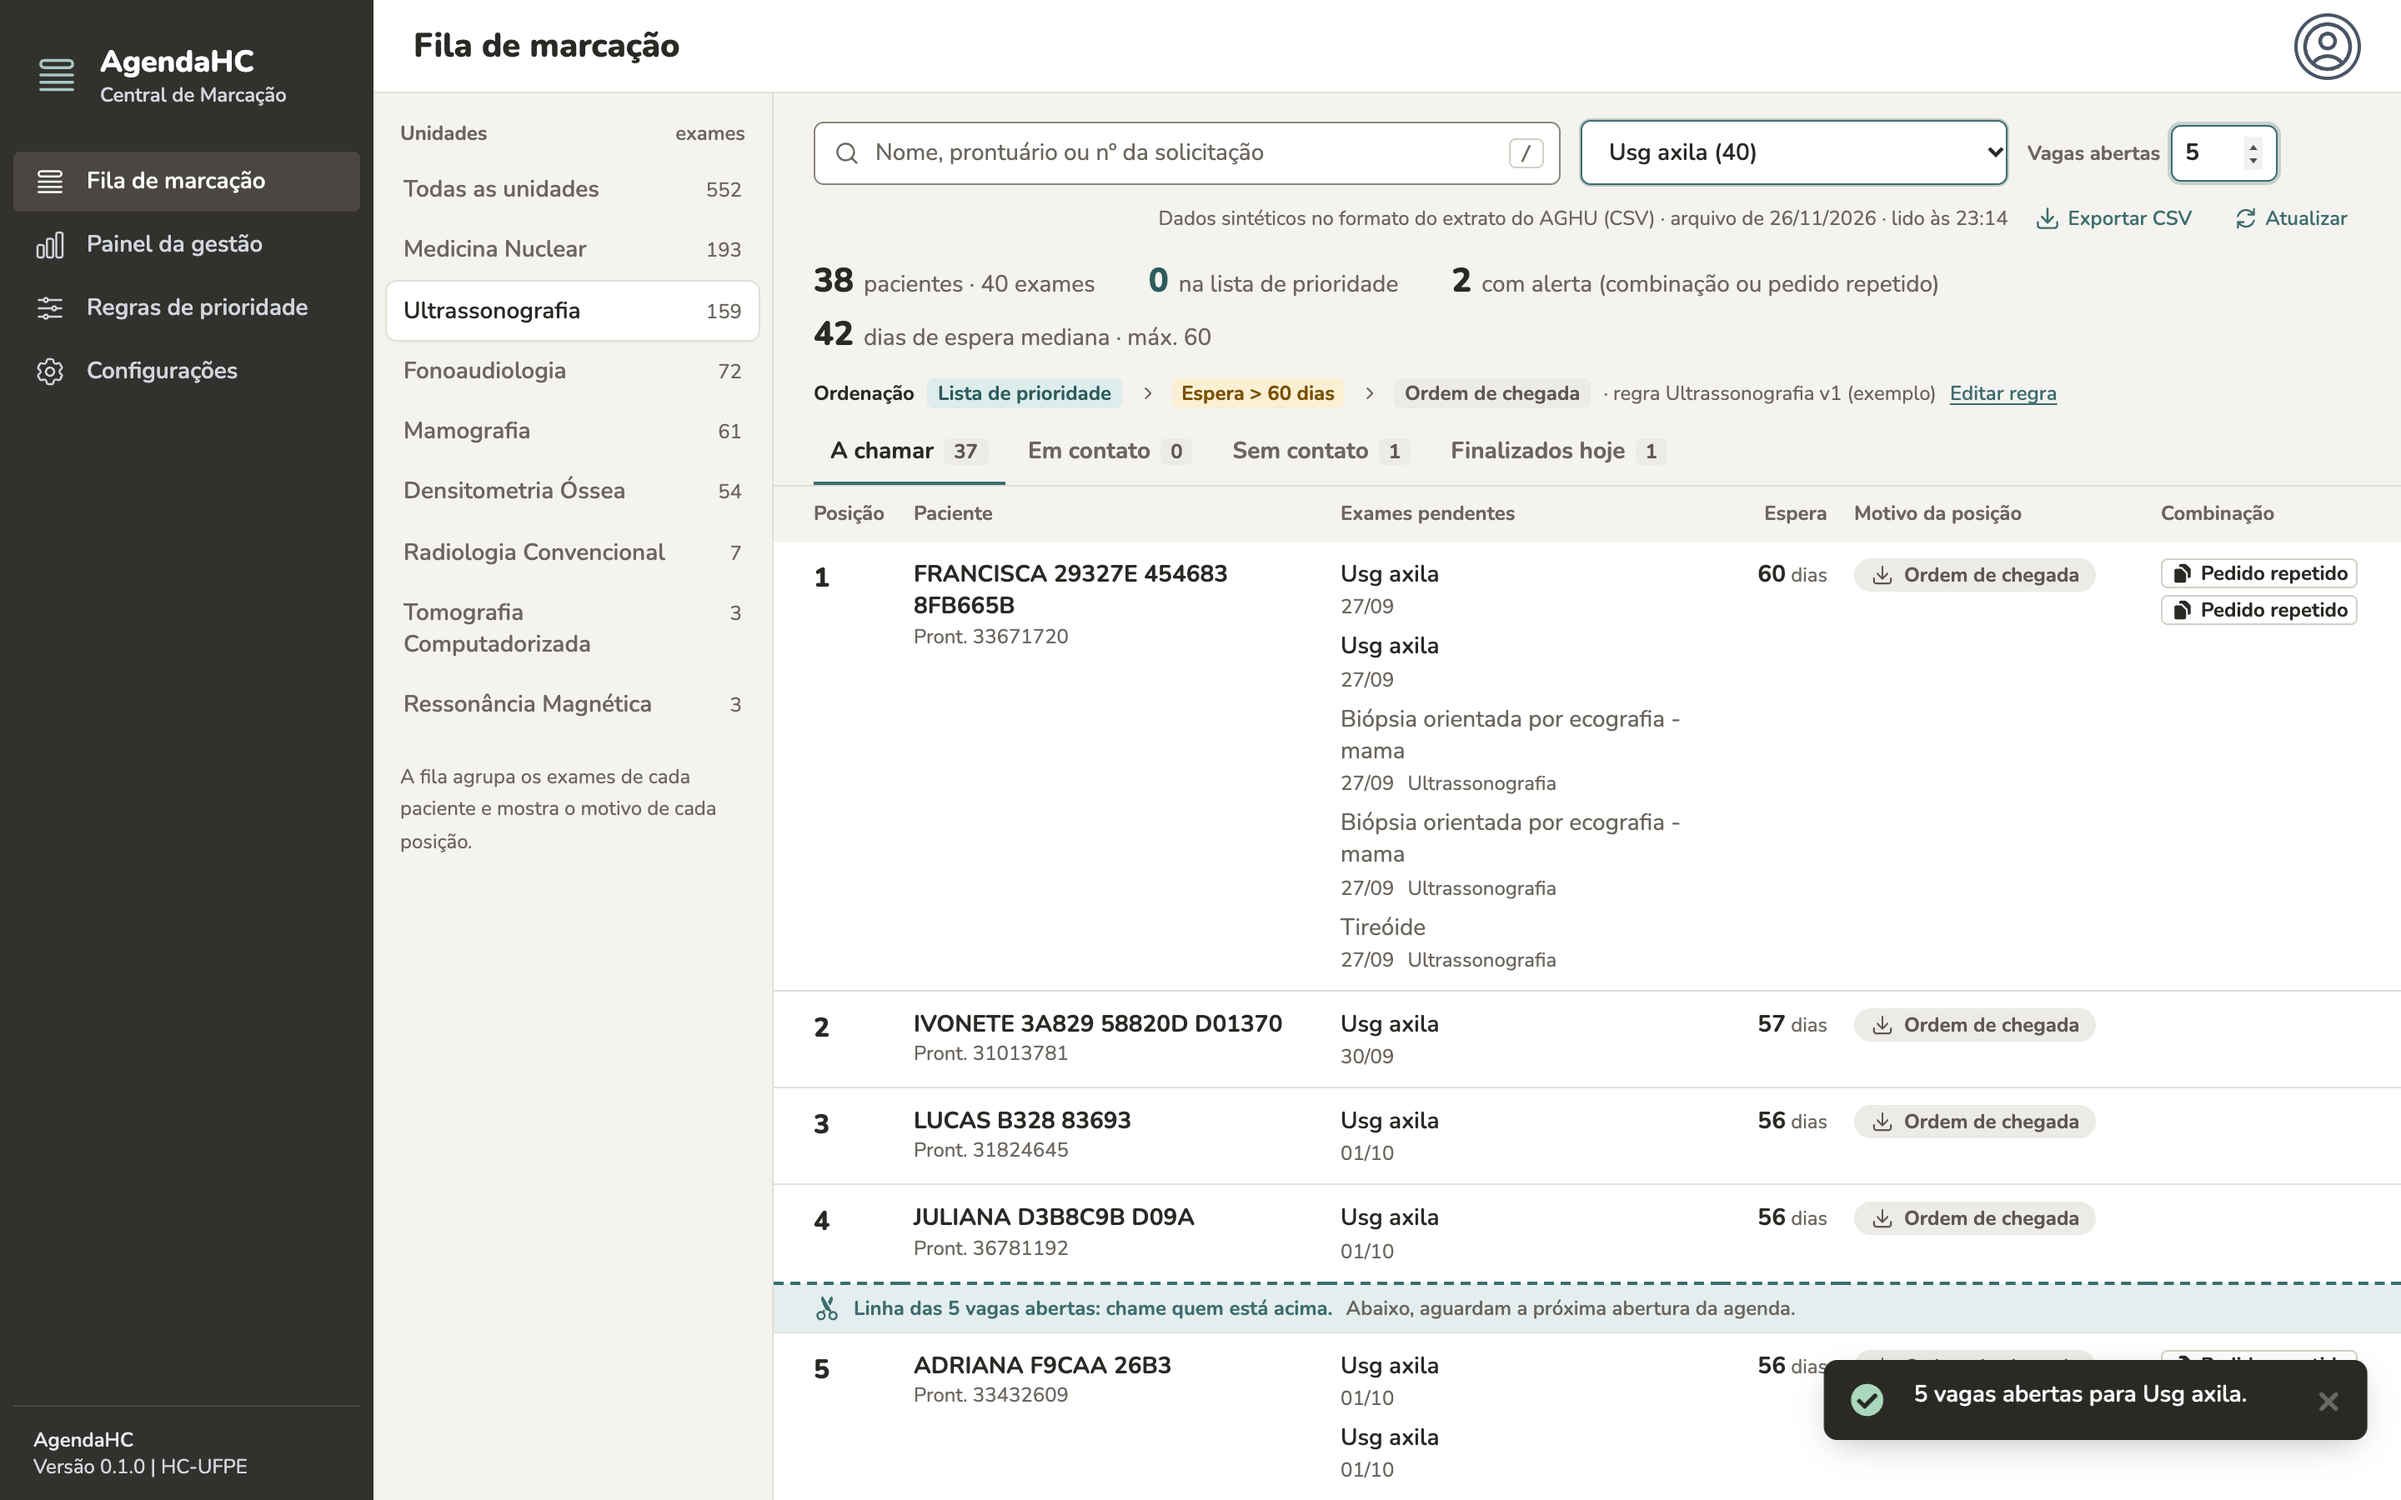
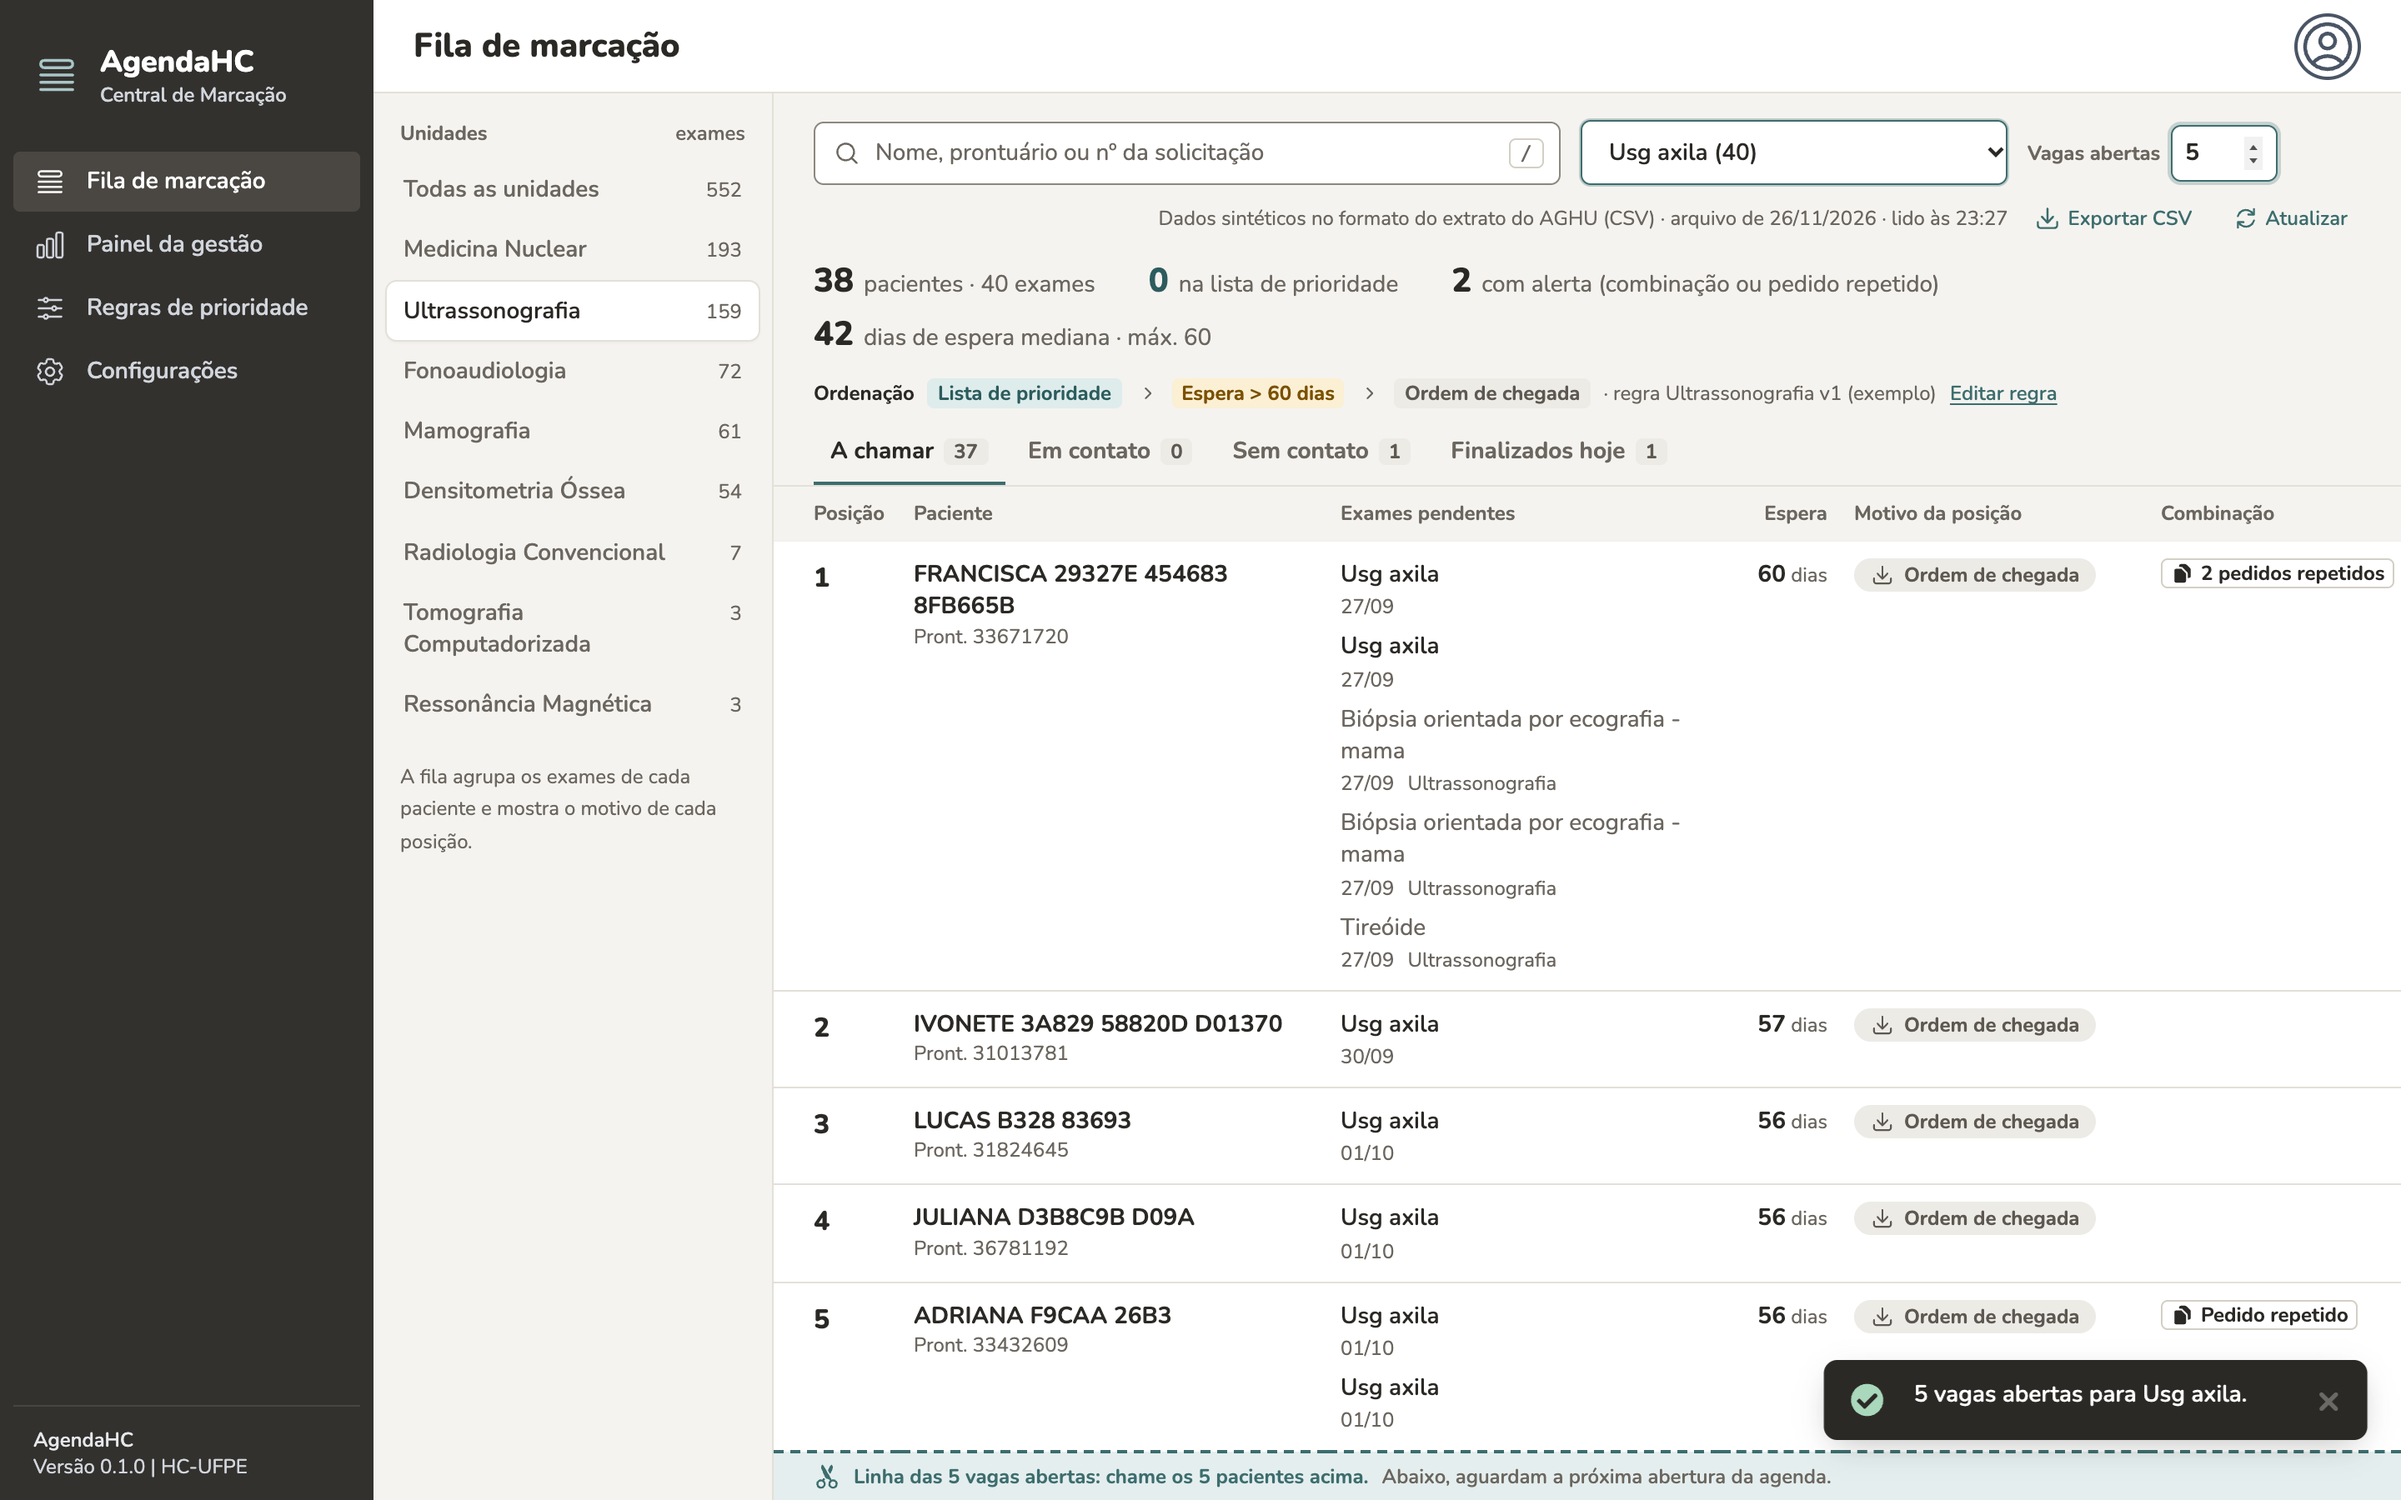
Protótipo: correções da revisão antes da demo
- Datas sem hora (agendamento, validade) eram lidas como meia-noite UTC e
  apareciam um dia antes em Recife.
- O prazo de 24 horas do paciente usa o contato mais antigo; antes, um
  contato recente escondia outro vencido.
- A linha de corte das vagas conta pacientes, não exames, e pedidos
  repetidos de um paciente viram um só alerta na linha.
- A prévia da mensagem explica por que o preparo de exemplo não entra.

Changed region(s): [[0.3125, 0.84, 1.0, 1.0], [0.9062, 0.3733, 1.0, 0.4356]]

diff --git a/Framework-SETISD/frontend/src/views/Fila.vue b/Framework-SETISD/frontend/src/views/Fila.vue
@@ -218,7 +218,7 @@
               <td v-if="!l.g" :colspan="colunas" class="px-6 py-1.5">
                 <p class="flex flex-wrap items-center gap-x-2 text-xs font-bold text-acao">
                   <ScissorsIcon class="h-4 w-4 -rotate-90" aria-hidden="true" />
-                  Linha das {{ dados?.vagas?.vagas }} vagas abertas: chame quem está acima.
+                  Linha das {{ dados?.vagas?.vagas }} vagas abertas: chame os {{ dados?.vagas?.vagas }} pacientes acima.
                   <span class="font-semibold text-ink-muted">Abaixo, aguardam a próxima abertura da agenda.</span>
                 </p>
               </td>
@@ -283,13 +283,13 @@
                       {{ l.g.tentativas }} {{ l.g.tentativas === 1 ? 'tentativa' : 'tentativas' }}<template v-if="l.g.contato"> · última {{ horaCurta(l.g.contato.criado_em) }}</template>
                     </p>
                     <template v-if="compacto">
-                      <AlertaCombinacao v-for="a in l.g.alertas" :key="a.tipo + a.exames.join()" :alerta="a" />
+                      <AlertaCombinacao v-for="a in alertasDaLinha(l.g)" :key="a.alerta.tipo + a.alerta.exames.join()" :alerta="a.alerta" :rotulo="a.rotulo" />
                     </template>
                   </div>
                 </td>
                 <td v-if="!compacto" class="pl-2 pr-6 py-2.5">
                   <div class="flex flex-col items-start gap-1">
-                    <AlertaCombinacao v-for="a in l.g.alertas" :key="a.tipo + a.exames.join()" :alerta="a" />
+                    <AlertaCombinacao v-for="a in alertasDaLinha(l.g)" :key="a.alerta.tipo + a.alerta.exames.join()" :alerta="a.alerta" :rotulo="a.rotulo" />
                   </div>
                 </td>
               </template>
@@ -368,6 +368,7 @@ import {
   horaCurta,
   nomeUnidade,
   type Aba,
+  type Alerta,
   type GrupoFila,
   type Motivo,
   type Regra,
@@ -515,13 +516,20 @@ const notaDaAba = computed(() => {
 const indiceDeCorte = computed(() => {
   const vagas = dados.value?.vagas?.vagas;
   if (!exame.value || aba.value !== 'a_chamar' || busca.value.trim() || !vagas) return null;
-  let soma = 0;
-  for (const [idx, g] of gruposFiltrados.value.entries()) {
-    soma += g.itens.filter((i) => i.na_unidade).length;
-    if (soma >= vagas) return idx < gruposFiltrados.value.length - 1 ? idx : null;
-  }
-  return null;
+  return vagas < gruposFiltrados.value.length ? vagas - 1 : null;
 });
+
+function alertasDaLinha(g: GrupoFila): { alerta: Alerta; rotulo?: string }[] {
+  const repetidos = g.alertas.filter((a) => a.tipo === 'DUPLICIDADE');
+  const outros = g.alertas.filter((a) => a.tipo !== 'DUPLICIDADE').map((alerta) => ({ alerta }));
+  if (repetidos.length < 2) return [...repetidos.map((alerta) => ({ alerta })), ...outros];
+  const juntos: Alerta = {
+    tipo: 'DUPLICIDADE',
+    orientacao: repetidos.map((a) => `${exameCurto(a.exames[0])}: ${a.orientacao}`).join('\n'),
+    exames: repetidos.flatMap((a) => a.exames),
+  };
+  return [{ alerta: juntos, rotulo: `${repetidos.length} pedidos repetidos` }, ...outros];
+}
 
 const linhasTabela = computed<Linha[]>(() => {
   const linhas: Linha[] = [];

diff --git a/Framework-SETISD/frontend/src/views/Regras.vue b/Framework-SETISD/frontend/src/views/Regras.vue
@@ -222,7 +222,7 @@
               <td class="px-2 py-2.5 text-ink">{{ p.motivo }}</td>
               <td class="px-2 py-2.5 text-ink-muted">{{ p.unidade ? nomeUnidade(p.unidade) : 'Todas as unidades' }}</td>
               <td class="tabular px-2 py-2.5" :class="venceEmBreve(p.validade) ? 'font-bold text-espera-ink' : 'text-ink-muted'">
-                {{ p.validade ? `até ${dataCompleta(`${p.validade}T12:00:00`)}` : 'sem prazo' }}
+                {{ p.validade ? `até ${dataCompleta(p.validade)}` : 'sem prazo' }}
               </td>
               <td class="px-2 py-2.5 text-ink-muted">
                 <template v-if="p.exemplo">Exemplo</template>
@@ -506,7 +506,7 @@ function descreverAuditoria(a: RegistroAuditoria) {
       return partes.join(' · ');
     }
     case 'INCLUIR_PACIENTE_PRIORITARIO':
-      return `${alvo} · ${depois.area}${depois.validade ? ` até ${dataCompleta(`${depois.validade}T12:00:00`)}` : ''}${depois.em_lote ? ' · lista colada' : ''}`;
+      return `${alvo} · ${depois.area}${depois.validade ? ` até ${dataCompleta(depois.validade)}` : ''}${depois.em_lote ? ' · lista colada' : ''}`;
     case 'REMOVER_PACIENTE_PRIORITARIO':
       return `${alvo} · ${antes.area ?? ''}`;
     case 'ALTERAR_VAGAS_EXAME':

diff --git a/Framework-SETISD/frontend/src/components/DetalhePaciente.vue b/Framework-SETISD/frontend/src/components/DetalhePaciente.vue
@@ -209,6 +209,9 @@
                   </button>
                 </p>
                 <p class="mt-1.5 whitespace-pre-line text-xs text-ink text-pretty">{{ mensagemPara(i, form.status as StatusItem, form.data) }}</p>
+                <p v-if="form.status === 'AGENDADO' && i.preparo?.exemplo" class="mt-1.5 text-xs text-ink-muted">
+                  O preparo deste exame ainda é texto de exemplo. Ele entra na mensagem depois que a UDI revisar e salvar em Regras.
+                </p>
                 <p class="mt-1.5 text-xs text-ink-muted">O AgendaHC não envia mensagens: cole no WhatsApp da Central.</p>
               </div>
               <label class="block">
@@ -405,7 +408,7 @@ const DESTINO: Record<StatusItem, Aba> = {
 function mensagemPara(i: ItemFila, status: StatusItem, dataIso: string | null | undefined) {
   const nome = primeiroNome(paciente.value?.nome ?? '');
   const exame = exameCurto(i.nome_exame);
-  const data = dataCompleta(`${dataIso}T12:00:00`);
+  const data = dataCompleta(dataIso);
   if (status === 'EM_CONTATO') {
     return `Olá, ${nome}. Aqui é a Central de Marcação do HC-UFPE.\n`
       + `Temos vaga para o seu exame ${exame} no dia ${data}.\n`

diff --git a/Framework-SETISD/frontend/src/lib/agenda.ts b/Framework-SETISD/frontend/src/lib/agenda.ts
@@ -173,15 +173,19 @@ export function nomeUnidade(unidade: string | null | undefined): string {
   return corrigirAghu(unidade.replace(/^UDI:\s*/, '')).toLowerCase().replace(/(^|\s)\S/g, (l) => l.toUpperCase());
 }
 
+function paraData(iso: string): Date {
+  return new Date(/^\d{4}-\d{2}-\d{2}$/.test(iso) ? `${iso}T12:00:00` : iso);
+}
+
 export function dataCurta(iso: string | null | undefined): string {
   if (!iso) return '—';
-  const d = new Date(iso);
+  const d = paraData(iso);
   return d.toLocaleDateString('pt-BR', { day: '2-digit', month: '2-digit' });
 }
 
 export function dataCompleta(iso: string | null | undefined): string {
   if (!iso) return '—';
-  const d = new Date(iso);
+  const d = paraData(iso);
   return d.toLocaleDateString('pt-BR', { day: '2-digit', month: '2-digit', year: 'numeric' });
 }
 

diff --git a/Framework-SETISD/frontend/src/components/AlertaCombinacao.vue b/Framework-SETISD/frontend/src/components/AlertaCombinacao.vue
@@ -5,7 +5,7 @@
     :title="alerta.orientacao"
   >
     <component :is="icone" class="h-3.5 w-3.5" aria-hidden="true" />
-    {{ ROTULO_COMBINACAO[alerta.tipo] }}
+    {{ rotulo ?? ROTULO_COMBINACAO[alerta.tipo] }}
   </span>
 </template>
 
@@ -14,7 +14,7 @@ import { computed } from 'vue';
 import { ExclamationTriangleIcon, ArrowLongRightIcon, LinkIcon, DocumentDuplicateIcon } from '@heroicons/vue/20/solid';
 import { ROTULO_COMBINACAO, type Alerta } from '../lib/agenda';
 
-const props = defineProps<{ alerta: Alerta }>();
+const props = defineProps<{ alerta: Alerta; rotulo?: string }>();
 
 const classes = computed(() => ({
   SEPARAR: 'bg-separar-bg text-separar-ink',

diff --git a/Framework-SETISD/tests/test_prioridade.py b/Framework-SETISD/tests/test_prioridade.py
@@ -137,6 +137,14 @@ def test_abas_separam_em_contato_com_prazo_de_24h_e_mantem_posicao():
     assert [(g["prontuario"], g["posicao"]) for g in a_chamar["grupos"]] == [("2", 2)]
 
 
+def test_contato_mais_antigo_define_o_prazo_vencido_do_paciente():
+    itens = [item("1", "10", "2026-08-01"), item("1", "11", "2026-08-01", "MAMOGRAFIA BILATERAL", "RXMM1")]
+    status = consolidar_tratamentos([tratamento("10", "EM_CONTATO", 30), tratamento("11", "EM_CONTATO", 2, codigo="RXMM1")])
+    r = ranquear_fila(itens, status, [], REGRAS, [], HOJE, agora=AGORA)
+    assert r["grupos"][0]["contato"]["horas"] == 30
+    assert r["resumo"]["abas"]["prazo_vencido"] == 1
+
+
 def test_paciente_com_um_exame_em_contato_fica_na_aba_em_contato():
     itens = [item("1", "10", "2026-08-01"), item("1", "11", "2026-08-01", "MAMOGRAFIA BILATERAL", "RXMM1")]
     status = consolidar_tratamentos([tratamento("10", "EM_CONTATO", 1)])

diff --git a/Framework-SETISD/src/controllers/fila_controller.py b/Framework-SETISD/src/controllers/fila_controller.py
@@ -288,7 +288,7 @@ def ranquear_fila(
             "prioridade": prioritario,
             "espera_dias": max(i["espera_dias"] for i in no_escopo),
             "aba": aba_do_paciente(no_escopo),
-            "contato": min(contatos, key=lambda c: c["horas"] if c["horas"] is not None else 0) if contatos else None,
+            "contato": max(contatos, key=lambda c: c["horas"] if c["horas"] is not None else 0) if contatos else None,
             "tentativas": max((i["status_info"] or {}).get("tentativas", 0) for i in no_escopo),
             "itens": [_sem_dados_do_paciente(i) for i in ordenados],
             "alertas": alertas_do_paciente(lista, combinacoes),

diff --git a/Framework-SETISD/docs/prototipo/roteiro-demo.md b/Framework-SETISD/docs/prototipo/roteiro-demo.md
@@ -12,7 +12,7 @@ Tudo o que aparece é sintético: nomes, prontuários e números de solicitaçã
 
 1. **A fila substitui a planilha.** Cada linha é um paciente, com todos os exames pendentes dele e o motivo da posição (lista de prioridade, espera acima do limite, ordem de chegada). Mostre um "Pedido repetido": mesmo exame em duas solicitações (RF015). No extrato há 22 casos.
 2. **Busca pelo ticket.** Digite um número de solicitação na busca. É o número que o paciente traz impresso, e hoje a Central o pesquisa no AGHU.
-3. **Fila por exame e vagas.** Abra Ultrassonografia, filtre por "USG axila" e informe 5 vagas abertas. A linha de corte mostra quem chamar agora. Depois informe 0: aparece o aviso de agenda sem vagas (RN-05), e a fila continua visível.
+3. **Fila por exame e vagas.** Abra Ultrassonografia, filtre por "USG axila" e informe 5 vagas abertas. A linha de corte mostra quem chamar agora: uma vaga por paciente, porque dois pedidos do mesmo exame para o mesmo paciente são sinalizados como "Pedido repetido", não como duas vagas. Se perguntarem: quem já está em "Em contato" dentro das 24 horas ainda não desconta das vagas; esse é o próximo passo. Depois informe 0: aparece o aviso de agenda sem vagas (RN-05), e a fila continua visível.
 4. **Contato com o paciente.** Abra um paciente, escolha "Em contato" com a data oferecida e mostre a mensagem pronta para colar no WhatsApp. Registre: o paciente vai para a aba "Em contato". Use "Desfazer" no aviso para mostrar que nada se perde.
 5. **O bloco de notas das 24 horas.** Na aba "Em contato", os pacientes sem resposta há mais de 24 horas aparecem em vermelho com "ofereça a vaga ao próximo". É a regra que a Central descreveu na validação de 06/11, hoje controlada num bloco de notas.
 6. **Agendado e preparo.** Em outro paciente, escolha "Agendado no AGHU" e uma data: a mensagem inclui o preparo do exame. Os preparos atuais são exemplo, por isso a mensagem mostra "[preparo a confirmar com a UDI]".
